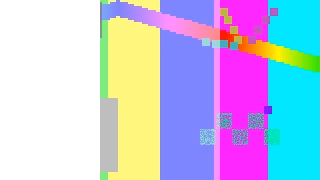
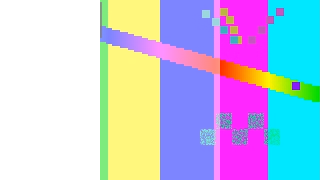
Preserve complete video GOP playback and record assisted vMix reception

diff --git a/painel/remoto/saidas-srt-conexao-ui.js b/painel/remoto/saidas-srt-conexao-ui.js
@@ -15,7 +15,7 @@
  function preview(){try{el('srt-connection-url').value=make();el('srt-connection-message').textContent='Confira os dados; Salvar ou Transmitir aplica o rascunho.';return true;}catch(e){el('srt-connection-url').value=server.value;el('srt-connection-message').textContent=e.message;return false;}}
  function write(changed){if(saved()?.active||selected()<0)return;try{const url=make(changed);server.value=url;server.dispatchEvent(new Event('input',{bubbles:true}));server.dispatchEvent(new Event('change',{bubbles:true}));sync();preview();}catch(e){el('srt-connection-message').textContent=e.message;}}
  function paint(){sync();const srt=isSRT(),active=!!saved()?.active,missing=selected()<0;box.hidden=!srt;advanced.hidden=srt?false:!label;summary.hidden=!srt;if(wasSRT!==srt){advanced.open=!srt;wasSRT=srt;}for(const f of box.querySelectorAll('input,select,button'))f.disabled=active||missing;server.disabled=active||missing;const mode=el('srt-connection-mode').value;el('srt-host-label').textContent=mode==='listener'?'IP local para aguardar conexão':'IP ou nome do receptor';el('srt-local-ips').disabled=active||missing||mode!=='listener';let ips=[];try{ips=window.FreeMixRemote?.getState()?.ips||[];}catch{}ips=ips.filter(ip=>typeof ip==='string');const sig=JSON.stringify(ips);if(sig!==localSignature){localSignature=sig;el('srt-local-ips').replaceChildren(new Option('Escolher IP local para Listener',''),...ips.map(ip=>new Option(ip,ip)));}el('srt-local-ip-note').textContent=(ips.length?'IPs locais: '+ips.join(' · '):'Nenhum IP de rede local informado pelo serviço.')+' Estes são os IPs deste FreeMix. Em Caller, informe o IP do receptor; o IP do outro computador não é descoberto automaticamente.';preview();if(active)el('srt-connection-message').textContent='Saída ativa. Pare antes de alterar a conexão.';if(missing)el('srt-connection-message').textContent='Selecione uma saída SRT ou uma saída livre para preparar a conexão.';}
- for(const [id,part]of[['srt-connection-host','host'],['srt-connection-port','port'],['srt-connection-latency','latency'],['srt-connection-mode','mode']])el(id).addEventListener('change',()=>{write(part);paint();});el('srt-local-ips').addEventListener('change',()=>{if(el('srt-local-ips').value){el('srt-connection-host').value=el('srt-local-ips').value;write('host');paint();}});
+ for(const [id,part]of[['srt-connection-host','host'],['srt-connection-port','port'],['srt-connection-latency','latency'],['srt-connection-mode','mode']]){el(id).addEventListener('input',()=>{write(part);paint();});el(id).addEventListener('change',()=>{write(part);paint();});}el('srt-local-ips').addEventListener('change',()=>{if(el('srt-local-ips').value){el('srt-connection-host').value=el('srt-local-ips').value;write('host');paint();}});
  el('srt-connection-use').onclick=()=>write();el('srt-connection-copy').onclick=async()=>{try{await navigator.clipboard.writeText(el('srt-connection-url').value);el('srt-connection-message').textContent='URL copiada.';}catch{el('srt-connection-url').focus();el('srt-connection-url').select();el('srt-connection-message').textContent='Selecione e copie a URL com Ctrl+C.';}};
  server.addEventListener('input',paint);server.addEventListener('change',paint);protocol.addEventListener('change',paint);if(typeof fields==='function'){const before=fields;fields=function(){const result=before.apply(this,arguments);paint();return result;};}if(typeof paintStatus==='function'){const before=paintStatus;paintStatus=function(){const result=before.apply(this,arguments);paint();return result;};}
  window.FreeMixSRTConnection={paint};paint();

diff --git a/painel/alpha-web/viewer.js b/painel/alpha-web/viewer.js
@@ -23,7 +23,7 @@
   const generation=++session;queue=[];sb=null;if(objectURL)URL.revokeObjectURL(objectURL);video.pause();video.removeAttribute('src');video.load();clear();
   if(!window.MediaSource||!MediaSource.isTypeSupported(mime)){state.error='Este navegador não decodifica '+mime;report(state.error);return;}
   mse=new MediaSource();objectURL=URL.createObjectURL(mse);video.src=objectURL;
-  mse.addEventListener('sourceopen',()=>{if(generation!==session)return;try{sb=mse.addSourceBuffer(mime);sb.addEventListener('updateend',()=>{if(sb.buffered.length){const start=sb.buffered.start(0),end=sb.buffered.end(sb.buffered.length-1);if(video.currentTime<start||end-video.currentTime>1.5)video.currentTime=Math.max(start,end-.25);video.play().catch(()=>{});}pump();});pump();}catch(e){state.error=e.message;report(state.error);}});
+  mse.addEventListener('sourceopen',()=>{if(generation!==session)return;try{sb=mse.addSourceBuffer(mime);let previousEnd=null,fragmentSeconds=1;sb.addEventListener('updateend',()=>{if(sb.buffered.length){const start=sb.buffered.start(0),end=sb.buffered.end(sb.buffered.length-1),delta=previousEnd===null?end-start:end-previousEnd;if(delta>0&&delta<20)fragmentSeconds=delta;previousEnd=end;const target=fragmentSeconds+.3;if(video.currentTime<start)video.currentTime=start;else if(end-video.currentTime>Math.max(1.5,target+1))video.currentTime=Math.max(start,end-target);video.play().catch(()=>{});}pump();});pump();}catch(e){state.error=e.message;report(state.error);}});
  }
  function connect(){
   ws=new WebSocket(location.href.replace(/^http/,'ws').replace(/\?.*$/,'').replace(/\/$/,'')+'/ws');ws.binaryType='arraybuffer';

diff --git a/VIDEO-ALPHA-UMA-ENTRADA.md b/VIDEO-ALPHA-UMA-ENTRADA.md
@@ -14,6 +14,10 @@ Fluxo: **entrada com alpha → SRT H.264 4:2:0 cor+máscara → FFmpeg remux sem
 5. No vMix, **Adicionar Entrada → Web Browser**. Cole o link da tela do receptor. Configure **1920×1080**, a resolução lógica, e mantenha posição/zoom padrão. A cor e transparência chegam juntas nessa única entrada; não adicione SRT, Virtual Input, máscara, Key/Fill ou Mix para este caminho.
 6. Use a nova entrada como overlay sobre o fundo. Para câmera com chroma key, selecione a fonte/composição **depois do filtro**, onde o verde já virou alpha. Enviar vídeo verde opaco não cria transparência.
 
+Nesta mesa foi criada a saída **Teste Alpha Web (Saída 5)** para 18460, copiando a origem da saída anterior sem modificar os outros destinos. Para trocar o vídeo que chega à entrada Web Browser, altere **essa saída**: Parar → Conteúdo "Entrada / composição própria" → Entrada desejada → Salvar → Iniciar. Alterar a saída Horizontal de 18360 afeta o teste SRT anterior.
+
+O operador confirmou que o vídeo apareceu no Web Browser do vMix. A mesma transmissão real passou na decodificação Edge em 1920×1080; após ajustar a reprodução por GOP, foram renderizados 150 quadros em cinco segundos. Transparência sobre fundo no vMix, áudio e WAN permanecem verificações separadas. Ao carregar o ajuste de reprodução, atualize apenas a página dessa entrada de navegador.
+
 Se a página ficar transparente sem vídeo, abra **diagnóstico do vídeo** na tela do receptor e confirme a saída SRT ativa. O diagnóstico mostra a resolução lógica e quantidade de quadros. Navegadores sem H.264/MSE/WebGL compatíveis exibem erro no diagnóstico. Após perda de sinal, o canvas é limpo, e não um último quadro congelado. Reconexão refaz a sessão de vídeo.
 
 Fechar a janela do `.cmd` encerra só o receptor. Um receptor iniciado pelo agente pode ser reutilizado: se aparecer porta ocupada, abra a tela 18750 existente em vez de iniciar outro.

diff --git a/CONTINUAR.md b/CONTINUAR.md
@@ -2,6 +2,8 @@
 
 ## Protótipo vídeo alpha por uma entrada de navegador — 09/10
 
+Teste assistido no operador: uma saída livre, **Teste Alpha Web / índice 3 / Saída 5**, foi configurada para SRT Caller 127.0.0.1:18460 com a mesma origem packed 420 da saída Horizontal; demais configurações de destinos permaneceram idênticas. Esta alteração de teste foi feita na mesa, diferente dos ensaios isolados abaixo. Receptor conectado; operador confirmou vídeo no Web Browser vMix. Edge decodificou a transmissão real em 1920×1080. Ajuste no MSE preserva duração do GOP em vez de saltar para os últimos 250 ms a cada fragmento: 150 quadros renderizados em cinco segundos após estar pronto. Fonte deve ser trocada nessa Saída 5, não na Horizontal 18360. Confirmação de transparência sobre fundo no vMix continua pendente.
+
 Correção adicional do assistente SRT: o botão de confirmar agora compõe a URL com todos os valores visíveis (IP/porta/modo/latência), preservando parâmetros avançados. Antes, sem um evento `change` individual, a confirmação podia manter a porta antiga. Regressão `resultado-srt-port-submit.json` e ensaio existente `resultado-srt-conexao-ui.json` passaram; saída ativa continua protegida. A janela de configuração já aberta precisa ser reaberta para carregar o JavaScript novo; não reiniciamos o motor nem alteramos o destino ativo do operador.
 
 `ABRIR-RECEPTOR-ALPHA.cmd` / `obs-vmix/ferramentas/alpha-web-receptor.mjs` recebem vídeo H.264 4:2:0 com cor/máscara lado a lado, remuxam sem recodificação para MP4 fragmentado e recompõem alpha do mesmo quadro em WebGL. **Não redesenha GC HTML**: qualquer fonte/composição com alpha real, inclusive chroma aplicado, pode alimentar o transporte. Serviço separado, HTTP 18750 / SRT 18460; guia `VIDEO-ALPHA-UMA-ENTRADA.md`. Nada foi publicado externamente.
